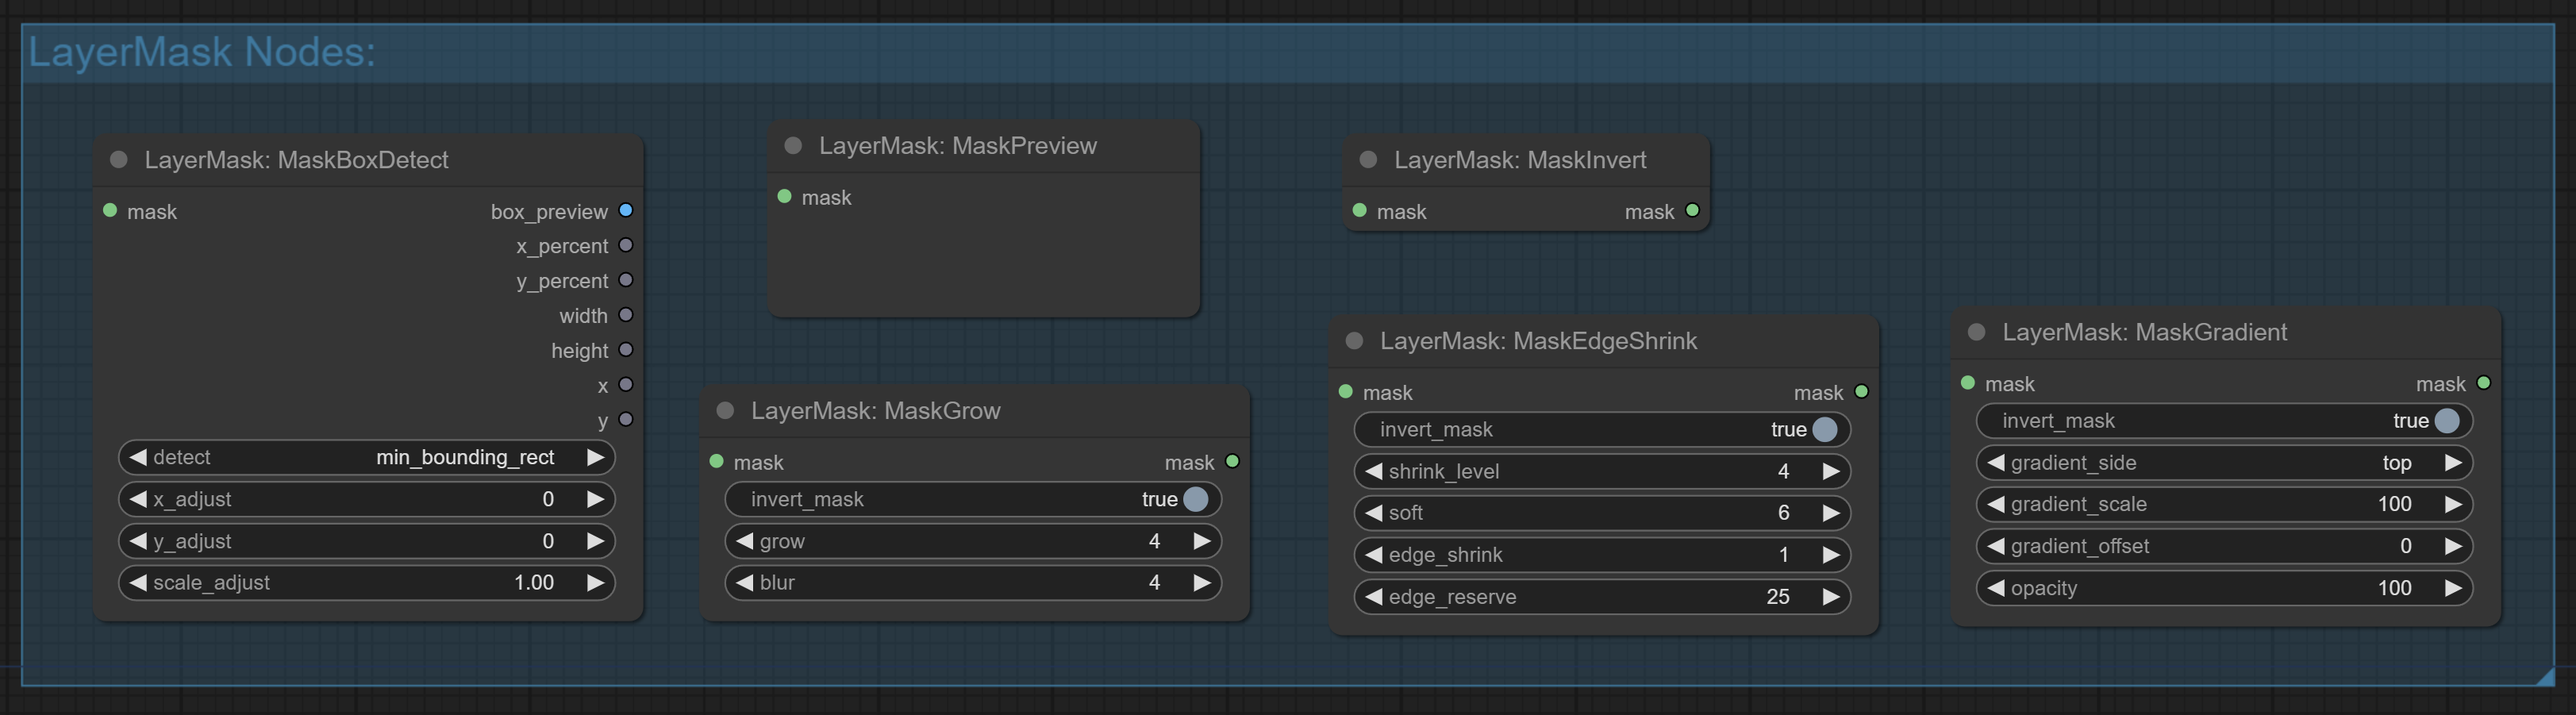
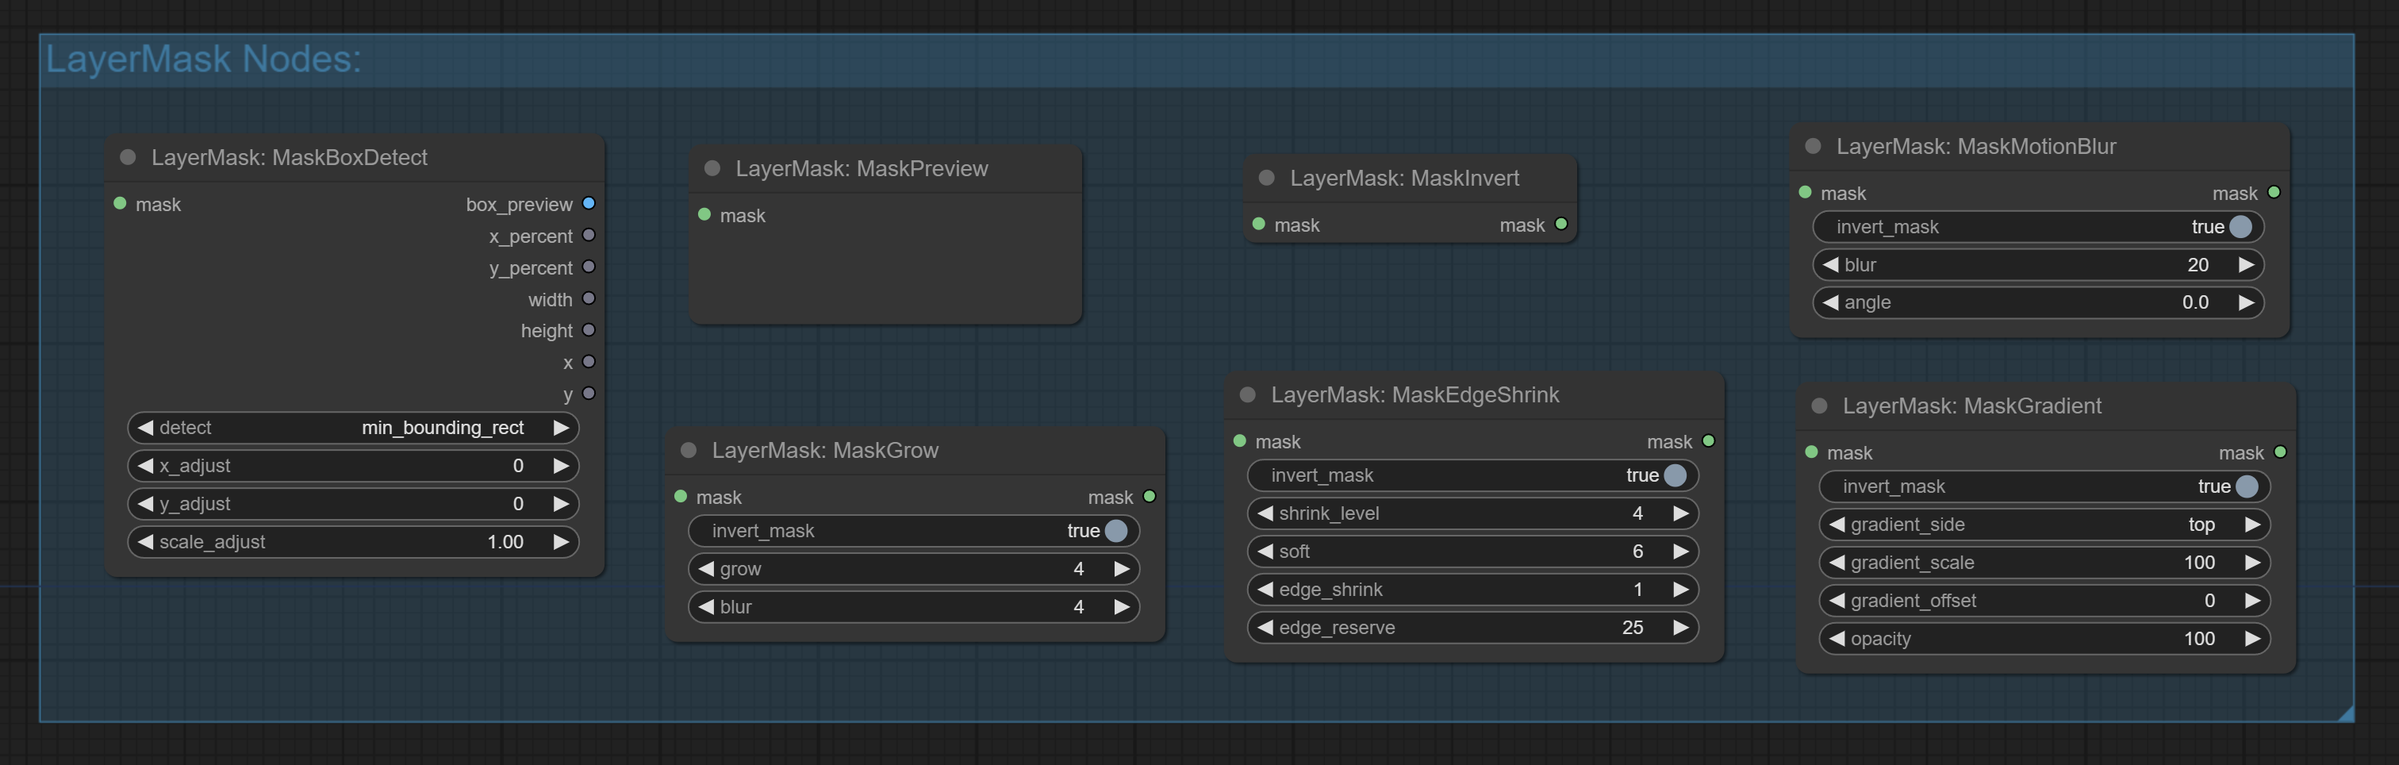
Commit MaskMotionBlur node and SoftLight node.
The MaskMotionBlur node create motion blur on the mask.  The SoftLight node create the bright highlights on the screen appear blurry.

diff --git a/py/soft_light.py b/py/soft_light.py
@@ -1,0 +1,54 @@
+from .imagefunc import *
+
+class SoftLight:
+
+    def __init__(self):
+        pass
+
+    @classmethod
+    def INPUT_TYPES(self):
+
+        return {
+            "required": {
+                "image": ("IMAGE", ),  #
+
+                "soft": ("FLOAT", {"default": 1, "min": 0.2, "max": 10, "step": 0.01}),  # 模糊
+                "threshold": ("INT", {"default": -10, "min": -255, "max": 255, "step": 1}),  # 高光阈值
+                "opacity": ("INT", {"default": 100, "min": 0, "max": 100, "step": 1}),  # 透明度
+            },
+            "optional": {
+            }
+        }
+
+    RETURN_TYPES = ("IMAGE",)
+    RETURN_NAMES = ("image",)
+    FUNCTION = 'soft_light'
+    CATEGORY = '😺dzNodes/LayerFilter'
+    OUTPUT_NODE = True
+
+    def soft_light(self, image, soft, threshold, opacity,):
+        blend_mode = 'screen'
+        _canvas = tensor2pil(image).convert('RGB')
+        blur = int((_canvas.width + _canvas.height) / 200 * soft)
+        _otsumask = gray_threshold(_canvas, otsu=True)
+        _removebkgd = remove_background(_canvas, _otsumask, '#000000').convert('L')
+        auto_threshold = get_image_bright_average(_removebkgd)
+        light_mask = gray_threshold(_canvas, auto_threshold + threshold)
+        highlight_mask = gray_threshold(_canvas, auto_threshold + (255 - auto_threshold) // 2 + threshold // 2)
+        blurimage = gaussian_blur(_canvas, soft).convert('RGB')
+        light = chop_image(_canvas, blurimage, blend_mode=blend_mode, opacity=opacity)
+        highlight = chop_image(light, blurimage, blend_mode=blend_mode, opacity=opacity)
+        _canvas.paste(highlight, mask=gaussian_blur(light_mask, blur * 2).convert('L'))
+        _canvas.paste(highlight, mask=gaussian_blur(highlight_mask, blur).convert('L'))
+        ret_image = _canvas
+        log('SoftLight Processed.')
+
+        return (pil2tensor(ret_image),)
+
+NODE_CLASS_MAPPINGS = {
+    "LayerFilter: SoftLight": SoftLight
+}
+
+NODE_DISPLAY_NAME_MAPPINGS = {
+    "LayerFilter: SoftLight": "LayerFilter: SoftLight"
+}

diff --git a/py/imagefunc.py b/py/imagefunc.py
@@ -250,6 +250,19 @@ def get_image_color_average(image:Image) -> str:
     ret_color = RGB_to_Hex(color)
     return ret_color
 
+def get_image_bright_average(image:Image) -> int:
+    image = image.convert('L')
+    width, height = image.size
+    total_bright = 0
+    pixels = 0
+    for y in range(height):
+        for x in range(width):
+            b = image.getpixel((x, y))
+            if b > 1:  # 排除死黑
+                pixels += 1
+                total_bright += b
+    return int(total_bright / pixels)
+
 '''Mask Functions'''
 
 def expand_mask(mask:torch.Tensor, grow:int, blur:int) -> torch.Tensor:
@@ -344,6 +357,17 @@ def max_inscribed_rect(image:Image) -> tuple:
     log(f"x1={x1}, y1={y1},x2={x2}, y2={y2}")
     x1, y1, x2, y2 = min(x1, x2), min(y1, y2), max(x1, x2), max(y1, y2)
     return (x1, y1, x2 - x1, y2 - y1)
+
+def gray_threshold(image:Image, thresh:int=127, otsu:bool=False) -> Image:
+    cv2_image = pil2cv2(image)
+    gray = cv2.cvtColor(cv2_image, cv2.COLOR_BGR2GRAY)
+    if otsu:
+        _, thresh =  cv2.threshold(gray,0,255,cv2.THRESH_BINARY+cv2.THRESH_OTSU)
+    else:
+        _, thresh = cv2.threshold(gray, thresh, 255, cv2.THRESH_TOZERO)
+
+    return cv22pil(thresh).convert('L')
+
 
 '''Color Functions'''
 

diff --git a/py/mask_motion_blur.py b/py/mask_motion_blur.py
@@ -1,0 +1,45 @@
+import copy
+
+from .imagefunc import *
+
+class MaskMotionBlur:
+
+    def __init__(self):
+        pass
+
+    @classmethod
+    def INPUT_TYPES(self):
+
+        return {
+            "required": {
+                "mask": ("MASK",),
+                "invert_mask": ("BOOLEAN", {"default": True}),  # 反转mask
+                "blur": ("INT", {"default": 20, "min": 1, "max": 9999, "step": 1}),
+                "angle": ("FLOAT", {"default": 0, "min": -360, "max": 360, "step": 0.1}),
+            },
+            "optional": {
+            }
+        }
+
+    RETURN_TYPES = ("MASK",)
+    RETURN_NAMES = ("mask",)
+    FUNCTION = 'mask_motion_blur'
+    CATEGORY = '😺dzNodes/LayerMask'
+    OUTPUT_NODE = True
+
+    def mask_motion_blur(self, mask, invert_mask, blur, angle,):
+
+        if invert_mask:
+            mask = 1 - mask
+        _mask = mask2image(mask).convert('RGB')
+        _blurimage = motion_blur(_mask, angle, blur)
+        ret_mask = image2mask(_blurimage)
+        return (ret_mask,)
+
+NODE_CLASS_MAPPINGS = {
+    "LayerMask: MaskMotionBlur": MaskMotionBlur
+}
+
+NODE_DISPLAY_NAME_MAPPINGS = {
+    "LayerMask: MaskMotionBlur": "LayerMask: MaskMotionBlur"
+}

diff --git a/py/channel_shake.py b/py/channel_shake.py
@@ -14,7 +14,7 @@ class ChannelShake:
             "required": {
                 "image": ("IMAGE", ),  #
                 "distance": ("INT", {"default": 20, "min": 1, "max": 999, "step": 1}),  # 距离
-                "angle": ("FLOAT", {"default": 40, "min": -360, "max": 360, "step": 0.01}),  # 角度
+                "angle": ("FLOAT", {"default": 40, "min": -360, "max": 360, "step": 0.1}),  # 角度
                 "mode": (channel_mode,),  # 模式
             },
             "optional": {

diff --git a/README.MD b/README.MD
@@ -12,6 +12,8 @@ Nodes are divided into four groups according to their functions: LayerStyle, Lay
 [中文说明点这里](./README_CN.MD)
 
 ## Update
+* Commit [MaskMotionBlur](#MaskMotionBlur) node.
+* Commit [SoftLight](#SoftLight) node.
 * Commit [ChannelShake](#ChannelShake) node, that is filter, can produce channel dislocation effect similar like Tiktok logo.
 * Commit [MaskGradient](#MaskGradient) node, can create a gradient in the mask.
 * Commit [GetColorTone](#GetColorTone) node, can obtain the main color or average color of the image. 
@@ -205,6 +207,7 @@ Output:
 
 ### <a id="table1">MaskGrow</a>
 Grow and shrink edges and blur the mask
+![image](image/mask_grow_example.png)
 
 Node options:
 ![image](image/mask_grow_node.png)
@@ -214,6 +217,7 @@ Node options:
 
 ### <a id="table1">MaskEdgeShrink</a>
 Smooth transition and shrink the mask edges while preserving edge details.
+![image](image/mask_edge_shrink_example.png)
 
 Node options:
 ![image](image/mask_edge_shrink_node.png)
@@ -226,6 +230,15 @@ Node options:
 Comparison of MaskGrow and MaskEdgeShrink
 ![image](image/mask_edge_compare.png)
 
+### <a id="table1">MaskMotionBlur</a>
+Create motion blur on the mask.
+![image](image/mask_motion_blur_example.png)
+
+Node options:  
+![image](image/mask_motion_blur_node.png)
+* invert_mask: Whether to reverse the mask.
+* blur: The size of blur.
+* angle: The angle of blur.
 
 ### <a id="table1">MaskGradient</a>
 Create a gradient for the mask from one side.
@@ -385,6 +398,17 @@ This node allows any type of input.
 
 # <a id="table1">LayerFilter</a>
 ![image](image/layerfilter_nodes.png)
+
+
+### <a id="table1">SoftLight</a>
+Soft light effect, the bright highlights on the screen appear blurry.
+![image](image/soft_light_example.png)
+
+Node options:
+![image](image/soft_light_node.png)
+* soft: Size of soft light.
+* threshold: Soft light range. the light appears from the brightest part of the picture. in lower value, the range will be larger, and in higher value, the range will be smaller.
+* opacity: Opacity of the soft light.
 
 
 ### <a id="table1">ChannelShake</a>
